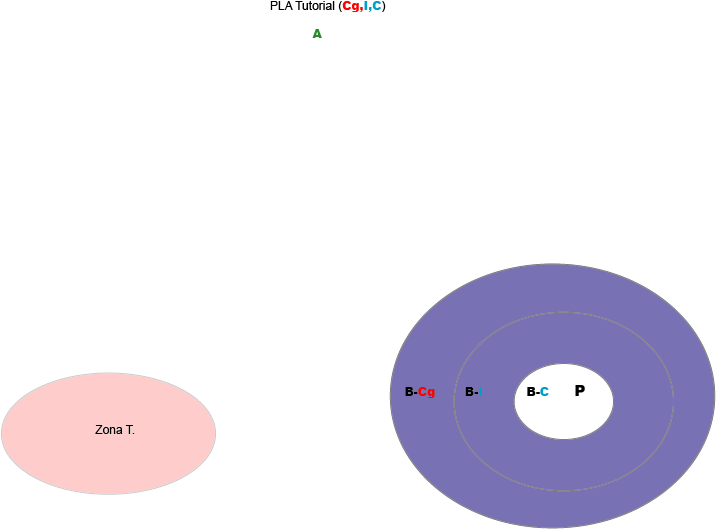
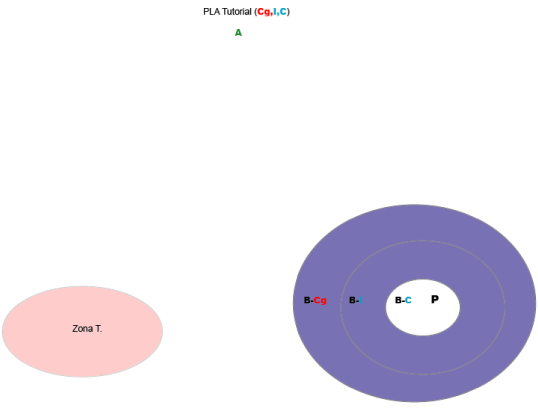
Criacao das Particulas e Zona de transicao
- todas as camadas de tutorial

diff --git a/Absolute Zero/Assets/Scripts/GeradorDeCamadas.cs b/Absolute Zero/Assets/Scripts/GeradorDeCamadas.cs
@@ -25,6 +25,42 @@ public class GeradorDeCamadas : MonoBehaviour {
 				gerarB_CG_LiqTut();
 			}
 		}
+		else if(camada.Equals("GasosoTut")){
+			//primeiras particulas
+			UnityEngine.Random.InitState((int)System.DateTime.Now.Ticks);
+			int i, numBM = 8, numA15 = 20, numA511 = 30, numBS = 40, numBCPMP = 10;
+			for(i = 0;i<numBM;i++){
+				gerarB_M_GasTut();
+			}
+			for(i = 0;i<numA15;i++){
+				gerarA15_GasTut();
+			}
+			for(i = 0;i<numA511;i++){
+				gerarA511_GasTut();
+			}
+			for(i = 0;i<numBS;i++){
+				gerarB_S_GasTut();
+			}
+			for(i = 0;i<numBCPMP;i++){
+				gerarB_Cp_M_P_GasTut();
+			}
+		}
+		else if(camada.Equals("PlasmaTut")){
+			//primeiras particulas
+			UnityEngine.Random.InitState((int)System.DateTime.Now.Ticks);
+			int i, numBC= 10, numBI = 20, numBCG = 40;
+			for(i = 0;i<numBC;i++){
+				gerarB_C_PlasmaTut();
+			}
+			for(i = 0;i<numBI;i++){
+				gerarB_I_PlasmaTut();
+			}
+			for(i = 0;i<numBCG;i++){
+				gerarB_Cg_PlasmaTut();
+			}
+		}
+
+
 	}
 	
 	// Update is called once per frame
@@ -459,8 +495,8 @@ public class GeradorDeCamadas : MonoBehaviour {
 		createB(x, y, UnityEngine.Random.Range(1, 5), 1, -63, 27.5, 34,46, 47, 59, "gerarB_S_GasTut");
 	}
 	void gerarB_Cp_M_P_GasTut(){
-		int raioH = UnityEngine.Random.Range(1, 64);
-		int raioV = (raioH*63)/41;
+		int raioH = UnityEngine.Random.Range(1, 62);
+		int raioV = (raioH*38)/61;
 		//Y=(1-(X^2/raioH^2))*raioV^2
 		double x = UnityEngine.Random.Range(0, raioH);
 		double y = Math.Sqrt((1- (Math.Pow(x, 2)/Math.Pow(raioH, 2)))*Math.Pow(raioV, 2));
@@ -480,7 +516,6 @@ public class GeradorDeCamadas : MonoBehaviour {
 		//criar
 		createB(x, y, UnityEngine.Random.Range(1, 5), 1, 92, 39.5, 0,0, 41, 63,"gerarB_Cp_M_P_GasTut");
 	}
-
 
 	//________________________________________________________________________________________________
 	//________________________________________________________________________________________________
